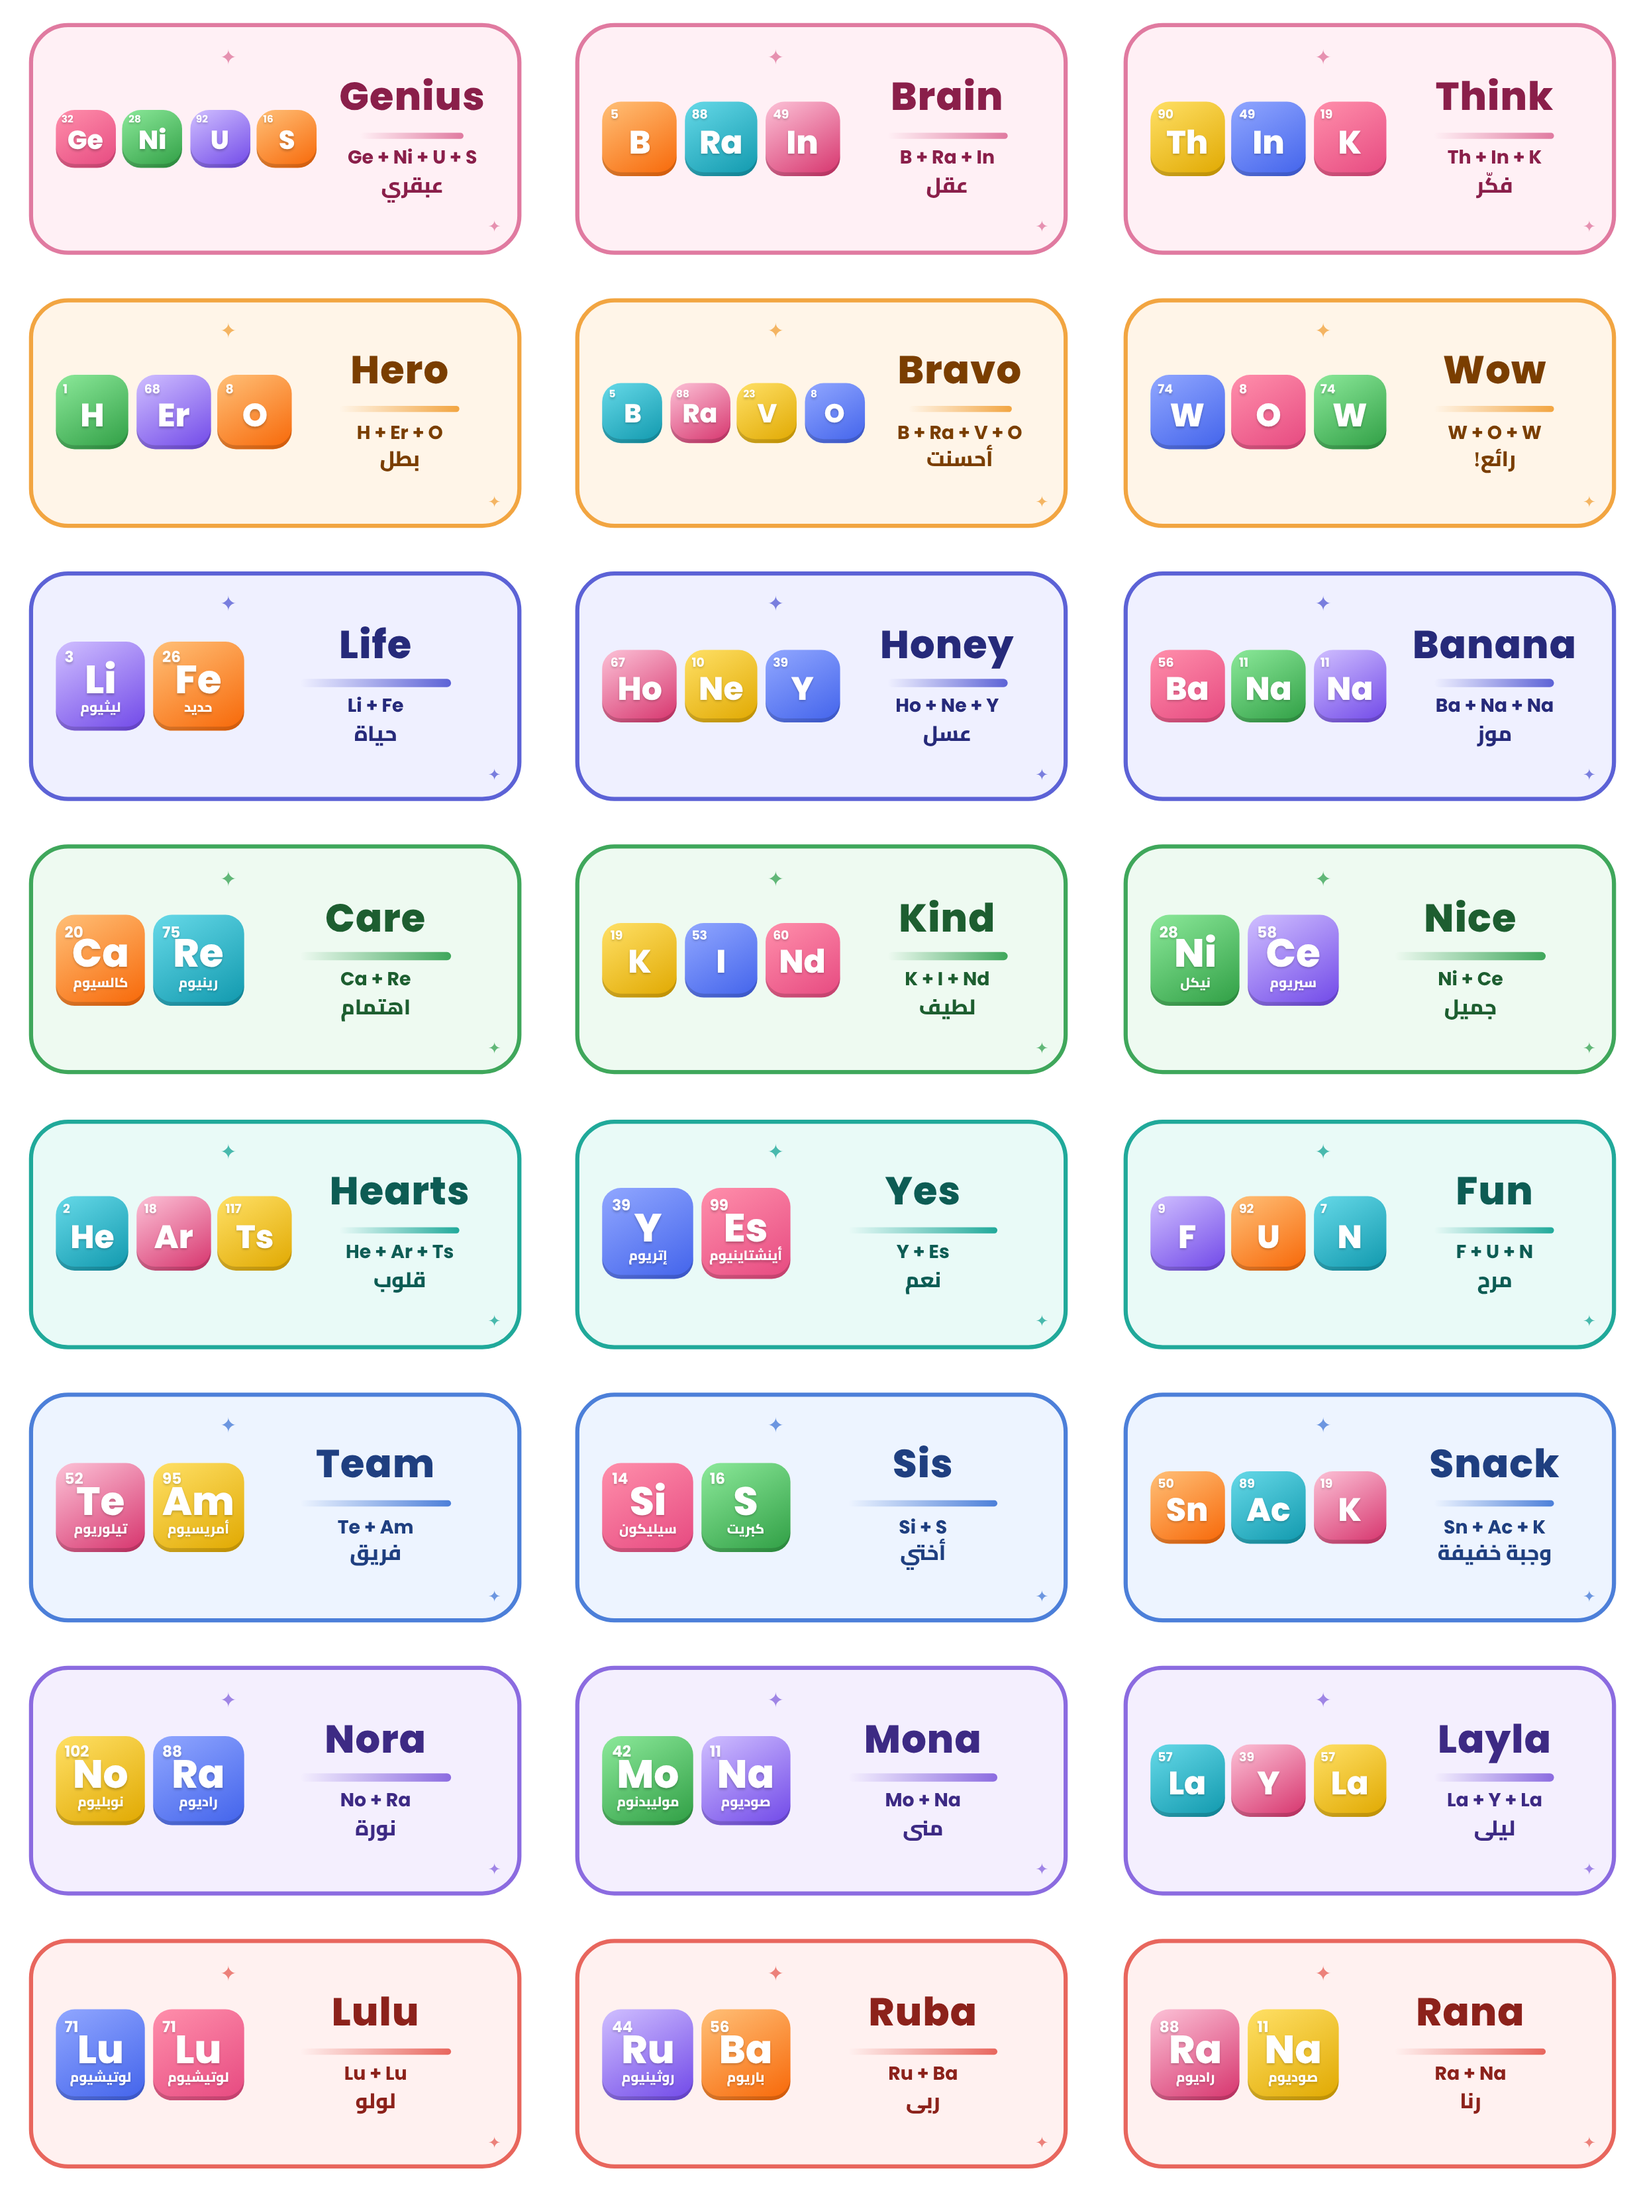
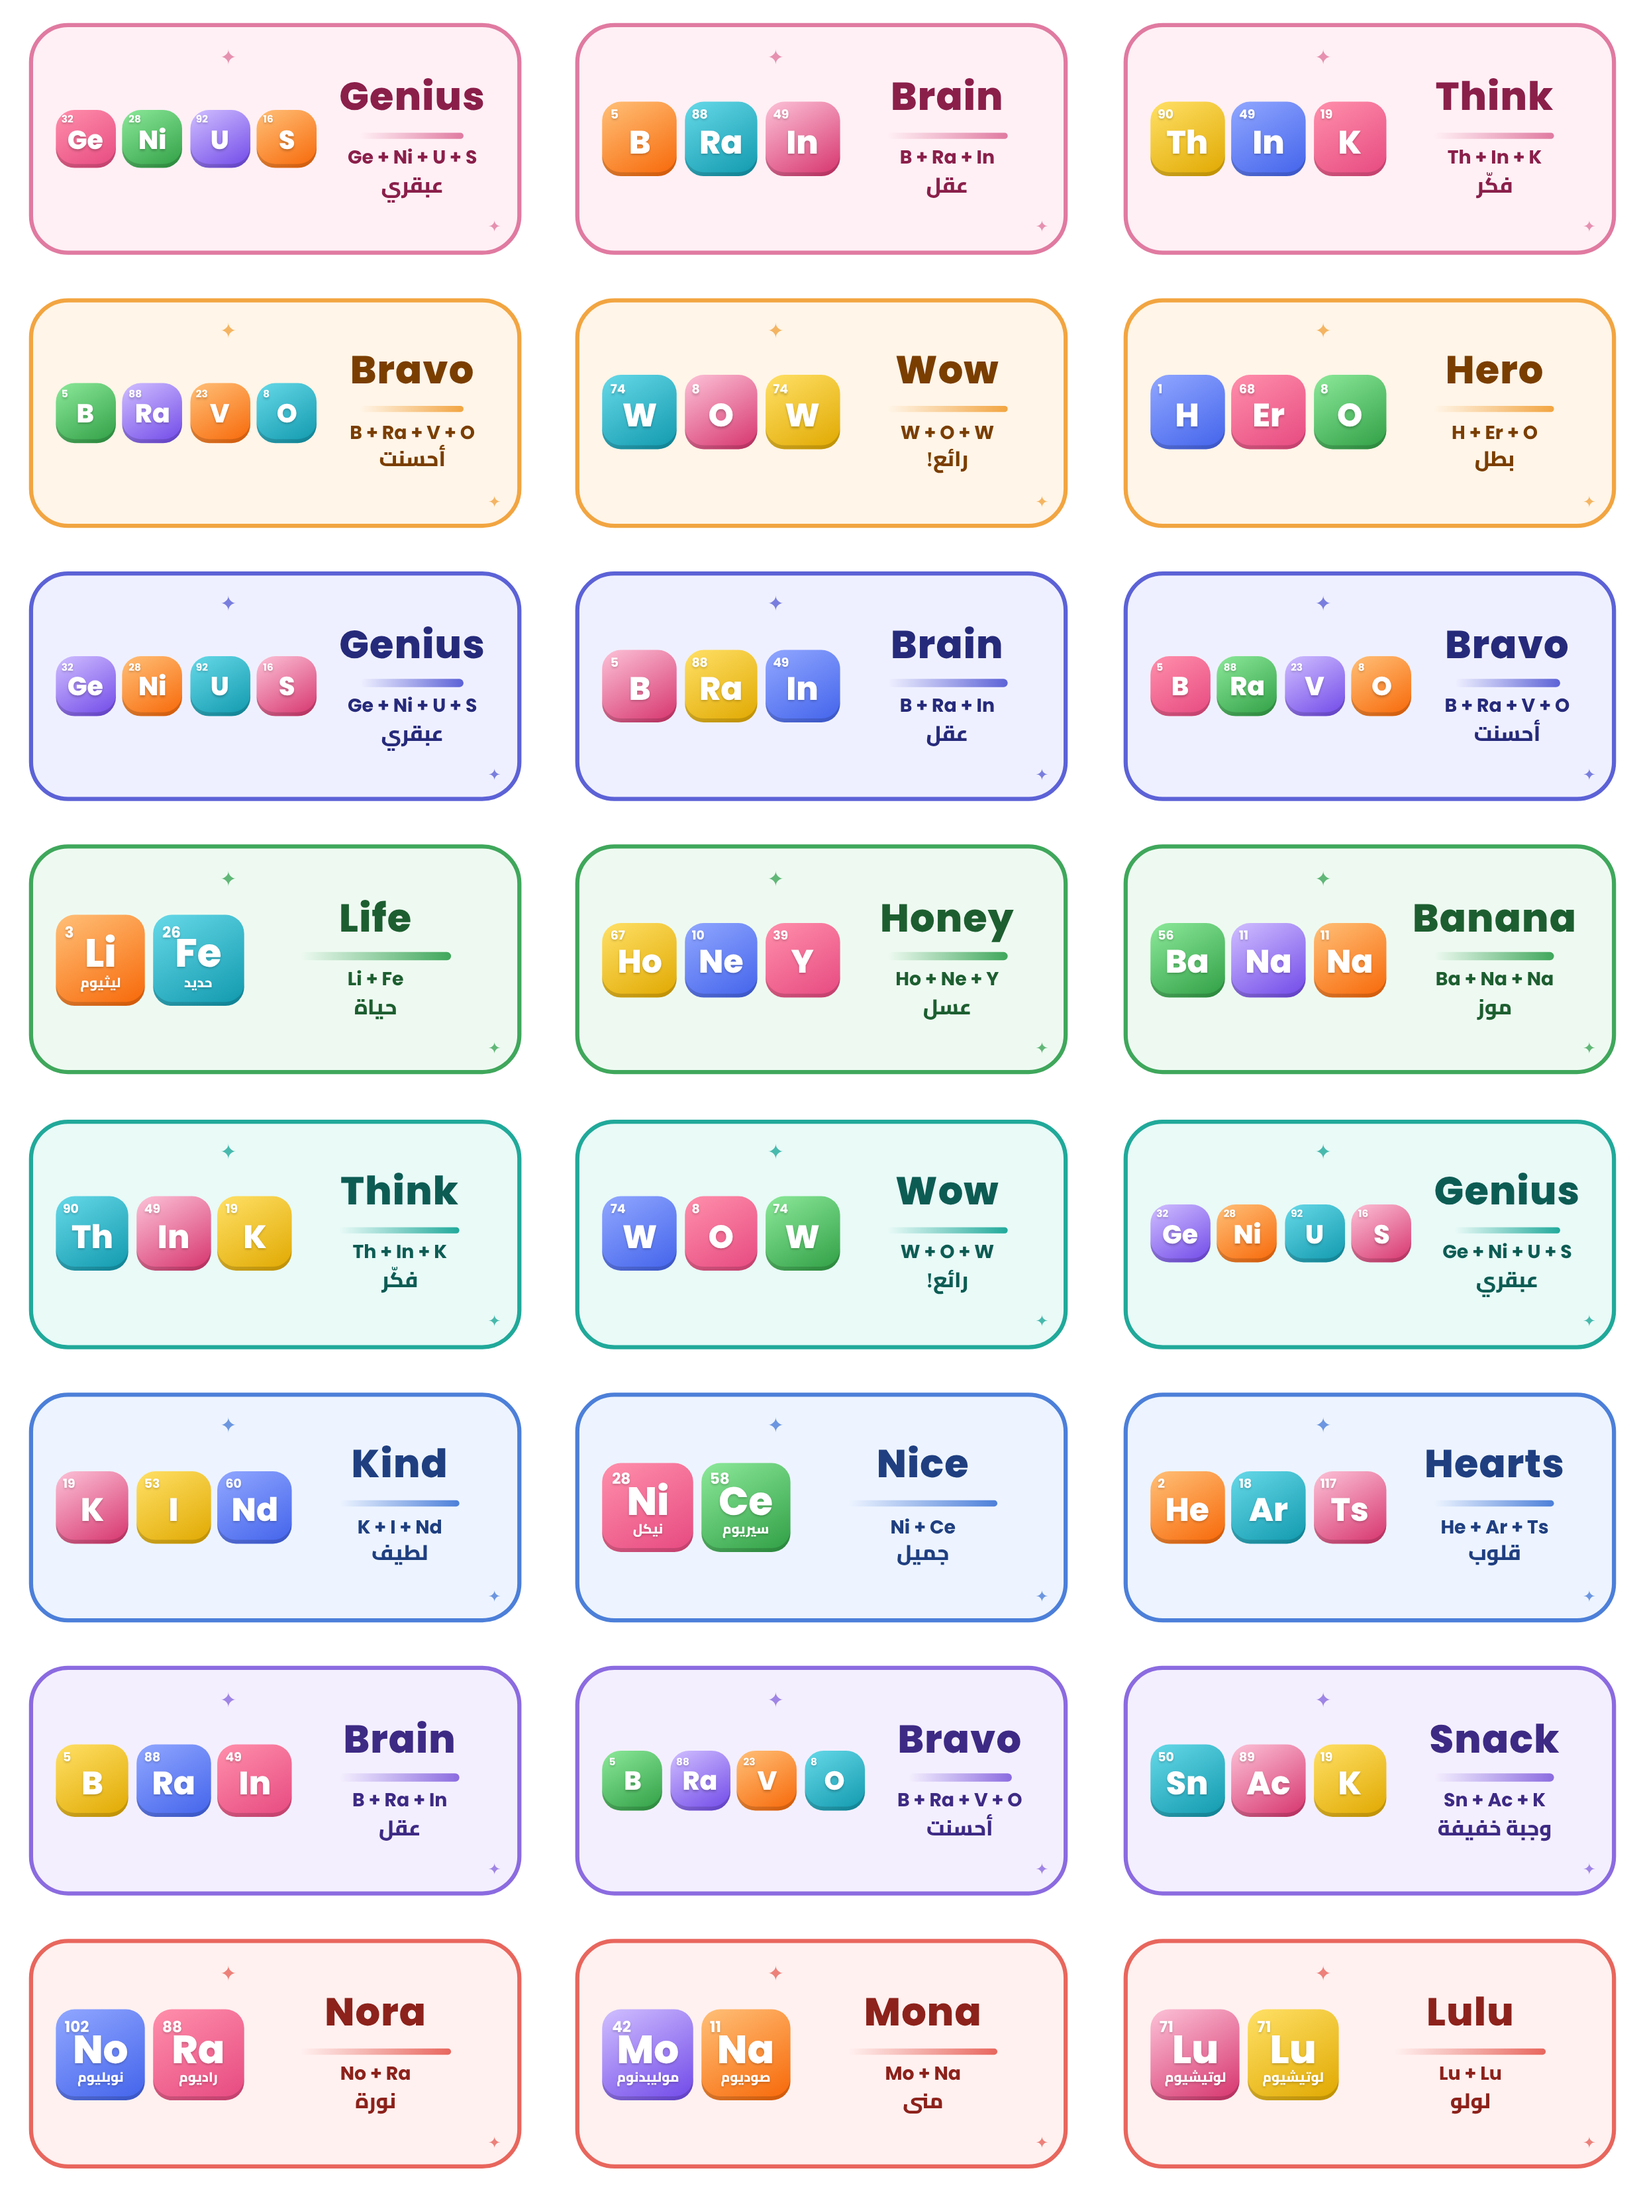
ورقة الكلمات: حذف Sis وTeam وYes وFun وCare وLayla وRana وRuba وتكرار الكلمات المفضلة
Claude-Session: https://claude.ai/code/session_01HHaTWvyQUvnE5SXu2aSoG4

diff --git a/src/stickers.js b/src/stickers.js
@@ -131,9 +131,12 @@ const AR_NAME = { Ge: 'جرمانيوم', Ni: 'نيكل', U: 'يورانيوم',
   Es: 'أينشتاينيوم', F: 'فلور', N: 'نيتروجين', Te: 'تيلوريوم', Am: 'أمريسيوم', Si: 'سيليكون', Sn: 'قصدير', Ac: 'أكتينيوم', No: 'نوبليوم',
   Mo: 'موليبدنوم', La: 'لانثانوم', Lu: 'لوتيشيوم', Ru: 'روثينيوم' };
 const TILE_COLORS = [['#ff8fab', '#e64980'], ['#ffc078', '#f76707'], ['#ffe066', '#e0a800'], ['#8ce99a', '#2f9e44'], ['#66d9e8', '#1098ad'], ['#91a7ff', '#4263eb'], ['#d0bfff', '#7048e8'], ['#fcc2d7', '#d6336c']];
+// ترتيب الورقة (24 استيكر)، والكلمات المفضلة مكررة
+const WORD_SHEET = ['Genius', 'Brain', 'Think', 'Bravo', 'Wow', 'Hero', 'Genius', 'Brain', 'Bravo', 'Life', 'Honey', 'Banana',
+  'Think', 'Wow', 'Genius', 'Kind', 'Nice', 'Hearts', 'Brain', 'Bravo', 'Snack', 'Nora', 'Mona', 'Lulu'];
 function wordItems() {
   const pal = [C.pink, C.orange, C.indigo, C.green, C.teal, C.blue, C.purple, C.red];
-  return WORDS.map(([word, els, ar], i) => {
+  return WORD_SHEET.map(w => WORDS.find(x => x[0] === w)).map(([word, els, ar], i) => {
     const size = els.length === 2 ? 11.5 : els.length === 3 ? 9.4 : 7.6;
     const tiles = els.map(([sym, z], j) => tile(sym, z, AR_NAME[sym], TILE_COLORS[(i + j * 3) % TILE_COLORS.length], size)).join('');
     return { c: pal[Math.floor(i / 3) % pal.length], art: `<div class="tiles">${tiles}</div>`, small: true,
